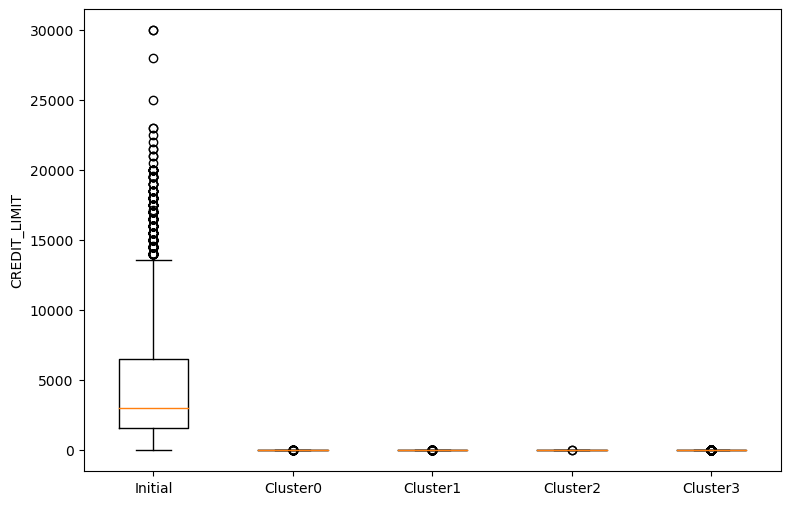
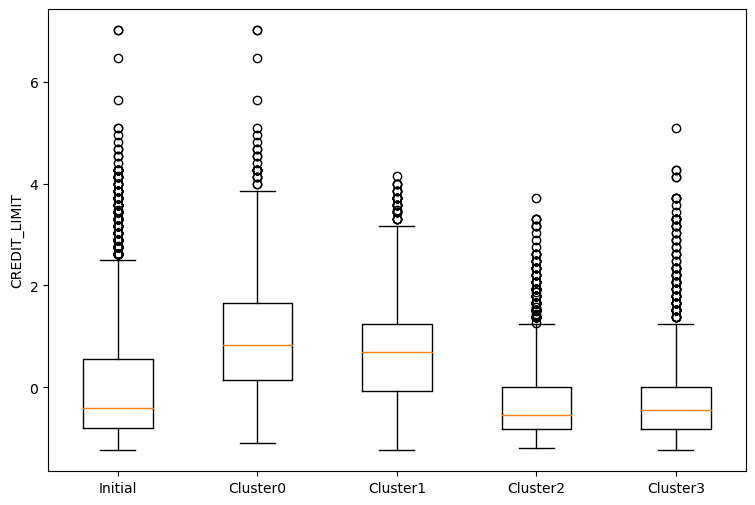
- dodatak tumacenja klastera

diff --git a/Projekat2/CreditCardData/summarize.py b/Projekat2/CreditCardData/summarize.py
@@ -18,6 +18,11 @@ column_names = ['BALANCE', 'BALANCE_FREQUENCY', 'ONEOFF_PURCHASES',
                 'ONEOFF_PURCHASES_FREQUENCY', 'PURCHASES_INSTALLMENTS_FREQUENCY',
                 'CASH_ADVANCE_FREQUENCY', 'CASH_ADVANCE_TRX', 'PURCHASES_TRX',
                 'CREDIT_LIMIT', 'PAYMENTS', 'MINIMUM_PAYMENTS', 'PRC_FULL_PAYMENT', 'TENURE']
+all_column_names = ['BALANCE', 'BALANCE_FREQUENCY', 'PURCHASES', 'ONEOFF_PURCHASES',
+                    'INSTALLMENTS_PURCHASES', 'CASH_ADVANCE', 'PURCHASES_FREQUENCY',
+                    'ONEOFF_PURCHASES_FREQUENCY', 'PURCHASES_INSTALLMENTS_FREQUENCY',
+                    'CASH_ADVANCE_FREQUENCY', 'CASH_ADVANCE_TRX', 'PURCHASES_TRX',
+                    'CREDIT_LIMIT', 'PAYMENTS', 'MINIMUM_PAYMENTS', 'PRC_FULL_PAYMENT', 'TENURE']
 row_names = ['mean', 'std', 'min', '25%', '50%', '75%', 'max']
 total_cluster_num = 4
 
@@ -34,6 +39,12 @@ def read_data(file_path):
     data = data.fillna(0)
     data.apply(pd.to_numeric)
     return data
+
+
+def normalize_data(data):
+    normalized = StandardScaler().fit_transform(data)
+    normalized_df = pd.DataFrame(normalized, columns=all_column_names)
+    return normalized_df
 
 
 def initial_statistics(credit_card_data):
@@ -152,10 +163,12 @@ def create_2d_clusters(all_cluster_data):
     # Create scatter matrices
     i = 0
     for cluster in all_cluster_data:
+        cluster = cluster.iloc[:, :-1]
         scatter_matrix(cluster, alpha=0.2, figsize=(6, 6), diagonal='kde')
         # Save the figure
-        plt.savefig('matrices/' + 'matrix-cluster' + str(i) + '.png', bbox_inches='tight')
+        plt.savefig('matrices/' + 'matrix-cluster' + str(i) + '.png')
         i += 1
+        print("Created " + str(i) + ". matrix.")
 
 
 def pca_2d_clusters(all_cluster_data):
@@ -230,7 +243,7 @@ def describe_clusters():
             # print("Maximum value for " + col_name + " is " + str(maximum) + " in cluster" + str(max_idxs[0]) + ".")
 
     # Write characteristics of each cluster to file
-    f = open("data/conclusion.txt", "w")
+    f = open("data/conclusions/conclusion.txt", "w")
     for cluster_idx, tuple_list in cluster_min_max.items():
         f.write("\nCluster" + str(cluster_idx) + ":\n")
         for tuple_value in tuple_list:
@@ -246,14 +259,15 @@ if __name__ == '__main__':
     # initial data statistics
     initial_data = read_data(data_file_path)
     initial_data_stats = initial_statistics(initial_data)
+    normalized_initial_data_stats = initial_statistics(normalize_data(initial_data))
     # mean, median, quartiles
     clusters_stats = summarize_all_clusters(total_cluster_num)
-    compare_all_clusters(initial_data_stats, clusters_stats)
+    compare_all_clusters(normalized_initial_data_stats, clusters_stats)
     # clusters with highest/lowest values
     describe_clusters()
     # box-plots
     clusters_data = read_cluster_data(total_cluster_num)
-    create_parallel_box_plots(initial_data, clusters_data)
+    create_parallel_box_plots(normalize_data(initial_data), clusters_data)
     # 2D representation (using PCA algorithm to reduce dimensionality)
     pca_2d_clusters(clusters_data)
 

diff --git a/Projekat2/CreditCardData/pokusaj.py b/Projekat2/CreditCardData/pokusaj.py
@@ -17,26 +17,11 @@ column_names = ['BALANCE', 'BALANCE_FREQUENCY', 'PURCHASES', 'ONEOFF_PURCHASES',
                 'CASH_ADVANCE_FREQUENCY', 'CASH_ADVANCE_TRX', 'PURCHASES_TRX',
                 'CREDIT_LIMIT', 'PAYMENTS', 'MINIMUM_PAYMENTS', 'PRC_FULL_PAYMENT', 'TENURE']
 
-
-def pretty_print(df):
-    print(df)
-    display(HTML(df.to_html().replace("\\n", "<br>")))
+data_file_path = 'data/clustered_data.csv'
 
 
-def kmeans_elbow_viz(data):
-    sum_of_squared_distance = []
-    n_cluster = range(1, 11)
-
-    for k in n_cluster:
-        kmean_model = KMeans(n_clusters=k)
-        kmean_model.fit(data)
-        sum_of_squared_distance.append(kmean_model.inertia_)
-
-    plt.plot(n_cluster, sum_of_squared_distance, 'bx-')
-    plt.xlabel('k')
-    plt.ylabel('Sum of squared distances')
-    plt.title('Elbow method for optimal K')
-    plt.show()
+def save_rules(df):
+    df.to_csv('data/conclusions/cluster_rule_sum.csv')
 
 
 def get_class_rules(tree: DecisionTreeClassifier, feature_names: list):
@@ -96,33 +81,21 @@ def cluster_report(data: pd.DataFrame, clusters, min_samples_leaf=50, pruning_le
     cluster_instance_df.columns = ['class_name', 'instance_count']
     report_df = pd.DataFrame(report_class_list, columns=['class_name', 'rule_list'])
     report_df = pd.merge(cluster_instance_df, report_df, on='class_name', how='left')
-    pretty_print(report_df.sort_values(by='class_name')[['class_name', 'instance_count', 'rule_list']])
+    save_rules(report_df.sort_values(by='class_name')[['class_name', 'instance_count', 'rule_list']])
 
 
 if __name__ == '__main__':
-    data_file_path = "data/credit_card_data.csv"
-    credit_card_dataset = pd.read_csv(data_file_path)
-    credit_card_dataset = credit_card_dataset.drop(credit_card_dataset.columns[0], axis=1)
-    X_df = credit_card_dataset.fillna(0)
 
-    pipeline = Pipeline(steps=[
-        ('scaler', StandardScaler()),
-        ('dim_reduction', PCA(n_components=2, random_state=0))
-    ])
+    clustered_credit_card_data = pd.read_csv(data_file_path)
+    x_df = clustered_credit_card_data.iloc[:, :-1]
+    y_cluster_num = clustered_credit_card_data.iloc[:, -1]
 
-    pc = pipeline.fit_transform(X_df)
+    # Create report
+    cluster_report(x_df, y_cluster_num)
 
-    # optimalan broj klastera
-    #kmeans_elbow_viz(pc)
-
-    kmeans_model = KMeans(n_clusters=4)
-    y_cluster = kmeans_model.fit_predict(pc)
-
-    cluster_report(X_df, y_cluster)
-
-    # Create Model
-    tree1 = DecisionTreeClassifier(min_samples_leaf=50, ccp_alpha=0.01)
-    tree1.fit(X_df, y_cluster)
+    # Create Decision Tree Structure
+    dec_tree = DecisionTreeClassifier(min_samples_leaf=50, ccp_alpha=0.01)
+    dec_tree.fit(x_df, y_cluster_num)
     plt.figure()
-    tree.plot_tree(tree1)
-    plt.show()
+    tree.plot_tree(dec_tree)
+    plt.savefig('data/conclusions/cluster_tree.png')

diff --git a/Projekat2/CreditCardData/main.py b/Projekat2/CreditCardData/main.py
@@ -18,10 +18,11 @@ column_names = ['BALANCE', 'BALANCE_FREQUENCY', 'PURCHASES', 'ONEOFF_PURCHASES',
                 'CREDIT_LIMIT', 'PAYMENTS', 'MINIMUM_PAYMENTS', 'PRC_FULL_PAYMENT', 'TENURE']
 
 column_new_names = ['BALANCE', 'BALANCE_FREQUENCY', 'ONEOFF_PURCHASES',
-                'INSTALLMENTS_PURCHASES', 'CASH_ADVANCE',
-                'ONEOFF_PURCHASES_FREQUENCY', 'PURCHASES_INSTALLMENTS_FREQUENCY',
-                'CASH_ADVANCE_FREQUENCY', 'CASH_ADVANCE_TRX', 'PURCHASES_TRX',
-                'CREDIT_LIMIT', 'PAYMENTS', 'MINIMUM_PAYMENTS', 'PRC_FULL_PAYMENT', 'TENURE']
+                    'INSTALLMENTS_PURCHASES', 'CASH_ADVANCE',
+                    'ONEOFF_PURCHASES_FREQUENCY', 'PURCHASES_INSTALLMENTS_FREQUENCY',
+                    'CASH_ADVANCE_FREQUENCY', 'CASH_ADVANCE_TRX', 'PURCHASES_TRX',
+                    'CREDIT_LIMIT', 'PAYMENTS', 'MINIMUM_PAYMENTS', 'PRC_FULL_PAYMENT', 'TENURE',
+                    'CLUSTER_NUM']
 
 '''
 class Point:
@@ -215,6 +216,14 @@ def optimal_k_value(upper_limit, input_data):
 
 
 def write_clusters(clusters):
+    # dodavanje kolone sa brojem klastera kome pripadaju
+    i = 0
+    for cluster in clusters:
+        for item in cluster.data:
+            item.append(i)
+        i += 1
+
+    # upis u fajl pojedinacnih klastera
     for cluster in clusters:
         file_name = "data/clusters/cluster" + str(clusters.index(cluster)) + ".csv"
         with open(file_name, mode='w', newline='\n') as cluster_file:
@@ -223,6 +232,16 @@ def write_clusters(clusters):
             for row in cluster.data:
                 cluster_writer.writerow(row)
 
+    # upis u fajl celokupnih podataka sa oznakom klastera
+    all_clusters = []
+    for cluster in clusters:
+        all_clusters.extend(cluster.data)
+    file_name = "data/clustered_data.csv"
+    with open(file_name, mode='w', newline='\n') as cluster_file:
+        cluster_writer = csv.writer(cluster_file, delimiter=',', quotechar='"', quoting=csv.QUOTE_MINIMAL)
+        cluster_writer.writerow(column_new_names)
+        for row in all_clusters:
+            cluster_writer.writerow(row)
     print("Cluster files written")
 
 
